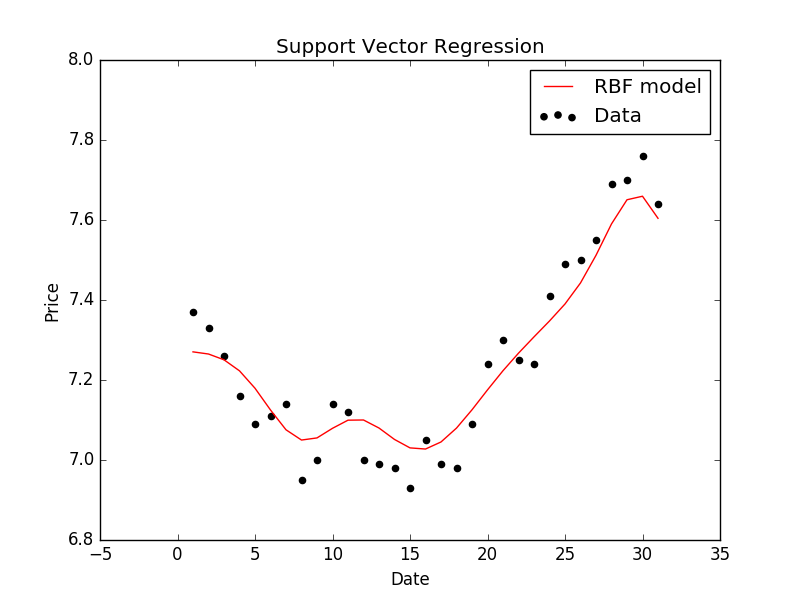
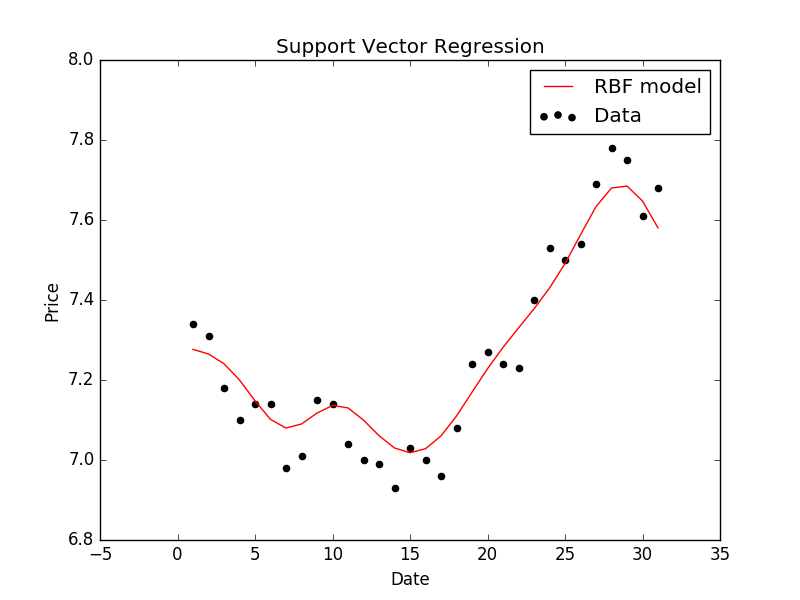
update close price

diff --git a/demo.py b/demo.py
@@ -20,7 +20,7 @@ def get_data(filename):
 		for row in csvFileReader:
 			#dates.append(int(row[0].split('-')[2]))
 			dates.append(int(row[0]))
-			prices.append(float(row[1]))
+			prices.append(float(row[4]))
 	return
 
 def predict_price(dates, prices, x):
